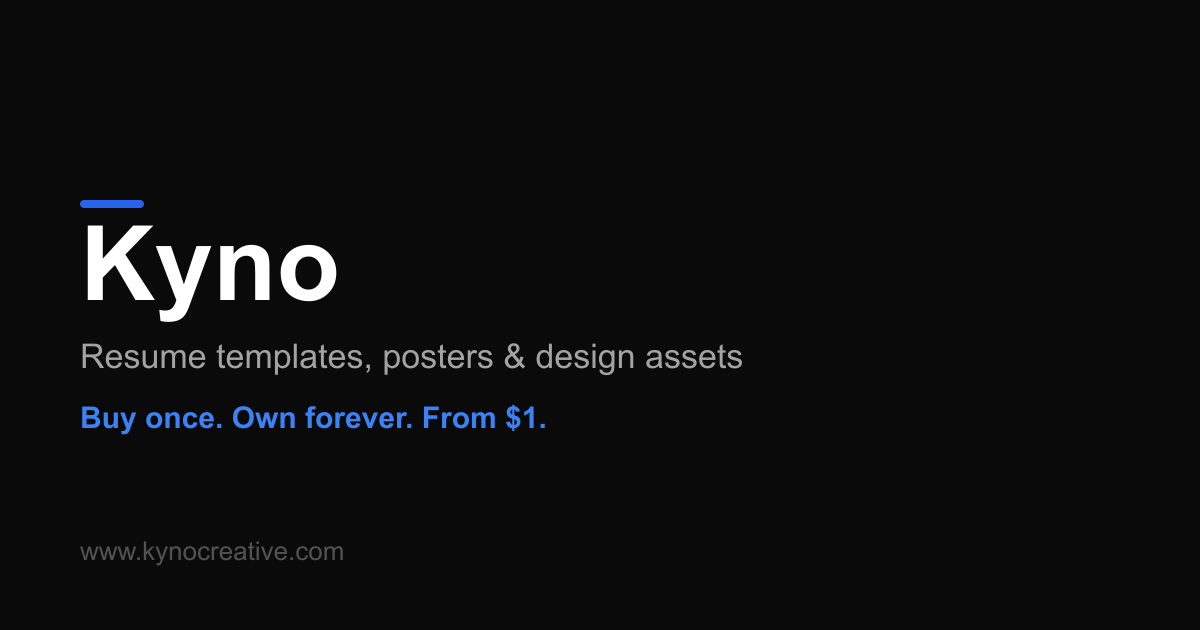
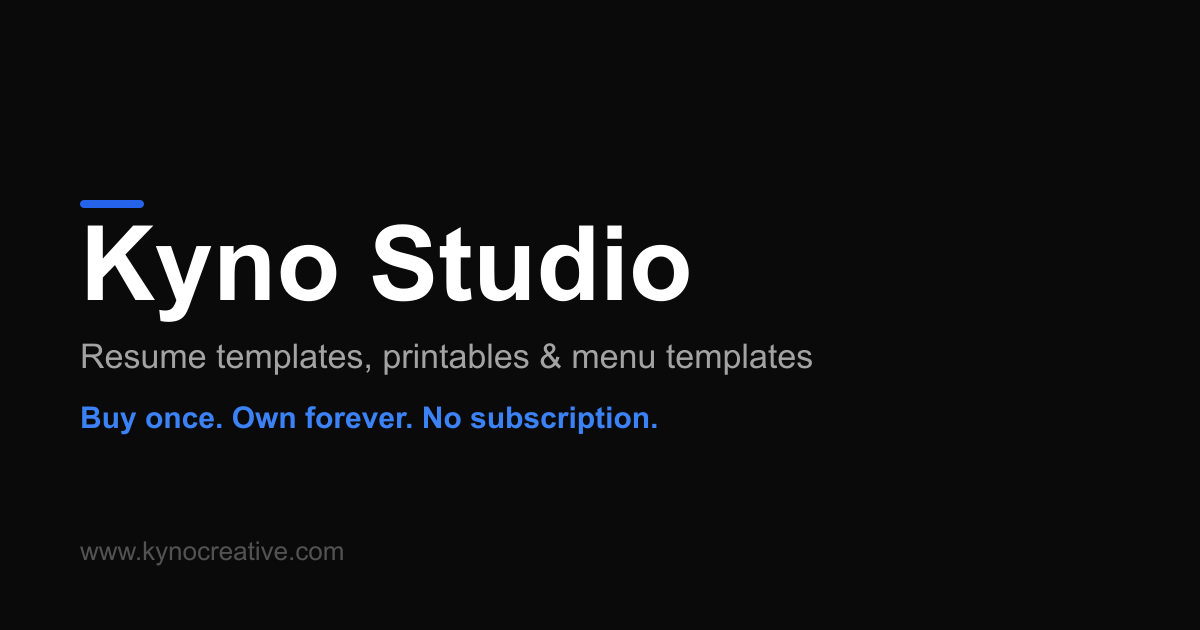
feat(brand): rename the store to Kyno Studio
A one-person shop reading "KYNO" everywhere gives a buyer no reason to think
there is a person behind it. The wordmark, the titles, the social card and the
structured data now say Kyno Studio.

The registered entity is untouched: the footer still names Kyno Technology
Limited and the Organization graph still declares it as `legalName` alongside
the new trading name. Presenting as a studio and operating as a company are
different things and both stay true.

The rename is not free. The title template's brand suffix went from seven
characters to fourteen, so a page keeps it only when its own name is 46
characters or shorter, down from 53. Pages that lose it fall back to an
absolute, trimmed title, which is what `pageTitle` already does for long
product names. The homepage is unaffected at 59 characters, just under the
budget.

The social card needed regenerating by hand — it is a PNG, and the text on it
is not reachable by any find-and-replace. Doing that surfaced two things it had
been claiming that were not true: it advertised "posters & design assets" for a
catalogue of resume templates, printables and menu templates, and it read
"From $1." while the cheapest product on the store is $4.90. The price is gone
rather than corrected, because a figure printed into a PNG that nothing
regenerates goes stale every time pricing changes, and the promise it was
attached to does not.

Kyno7878 (a seed account password), the kynocreative.com domain, the
[…]

Changed region(s): [[0.3083, 0.3619, 0.5858, 0.4825], [0.3392, 0.5429, 0.6783, 0.6032], [0.3392, 0.6333, 0.555, 0.6937]]

diff --git a/src/app/terms/page.tsx b/src/app/terms/page.tsx
@@ -7,7 +7,7 @@ import { SITE } from "@/lib/site-config";
 export const metadata: Metadata = {
   title: "Terms of Service",
   description:
-    "The terms that apply when you buy from Kyno — digital delivery, payment, refunds and acceptable use.",
+    "The terms that apply when you buy from Kyno Studio — digital delivery, payment, refunds and acceptable use.",
   alternates: { canonical: "/terms" },
 };
 
@@ -33,13 +33,13 @@ export default function TermsPage() {
 
             <h2 className="mt-10 text-lg font-bold text-neutral-900">1. Acceptance of Terms</h2>
             <p className="mt-2 text-sm leading-relaxed text-neutral-600">
-              By accessing or purchasing from Kyno (&quot;the Site&quot;), you agree to these Terms of Service.
+              By accessing or purchasing from Kyno Studio (&quot;the Site&quot;), you agree to these Terms of Service.
               If you do not agree, do not use the Site.
             </p>
 
             <h2 className="mt-8 text-lg font-bold text-neutral-900">2. Digital Products &amp; License</h2>
             <p className="mt-2 text-sm leading-relaxed text-neutral-600">
-              All products sold on Kyno are digital goods. Upon purchase, you receive a non-exclusive,
+              All products sold on Kyno Studio are digital goods. Upon purchase, you receive a non-exclusive,
               perpetual, worldwide license to use the product in personal and commercial projects. You may
               not resell, redistribute, or sublicense the products as standalone assets. Each product page
               may specify additional license terms.
@@ -73,14 +73,14 @@ export default function TermsPage() {
 
             <h2 className="mt-8 text-lg font-bold text-neutral-900">5. Intellectual Property</h2>
             <p className="mt-2 text-sm leading-relaxed text-neutral-600">
-              All products, images, templates, and content on Kyno are protected by copyright
-              and owned by Kyno or its licensors. Purchasing a product grants you a license to use it;
+              All products, images, templates, and content on Kyno Studio are protected by copyright
+              and owned by Kyno Studio or its licensors. Purchasing a product grants you a license to use it;
               it does not transfer ownership or copyright.
             </p>
 
             <h2 className="mt-8 text-lg font-bold text-neutral-900">6. Limitation of Liability</h2>
             <p className="mt-2 text-sm leading-relaxed text-neutral-600">
-              Kyno provides products &quot;as is&quot; without warranty of any kind. We are not liable for any
+              Kyno Studio provides products &quot;as is&quot; without warranty of any kind. We are not liable for any
               damages arising from the use or inability to use our products. Our total liability for any
               claim shall not exceed the amount paid for the specific product in question.
             </p>

diff --git a/src/app/about/page.tsx b/src/app/about/page.tsx
@@ -7,7 +7,7 @@ import { SITE } from "@/lib/site-config";
 export const metadata: Metadata = {
   title: "About",
   description:
-    "Kyno is an independent studio selling ready-made resume templates, printables and menu templates — pay once, own forever, from $4.",
+    "Kyno Studio is an independent studio selling ready-made resume templates, printables and menu templates — pay once, own forever, from $4.",
   alternates: { canonical: "/about" },
 };
 
@@ -34,7 +34,7 @@ export default function AboutPage() {
               Premium digital assets for creators
             </h1>
             <p className="mt-6 text-lg leading-relaxed text-neutral-500">
-              Kyno is an independent studio crafting high-quality resume templates,
+              Kyno Studio is an independent studio crafting high-quality resume templates,
               printables, and menu templates for job seekers, small businesses, and creators worldwide.
             </p>
           </div>
@@ -46,7 +46,7 @@ export default function AboutPage() {
             <div>
               <h2 className="text-xl font-bold text-neutral-900">Our story</h2>
               <p className="mt-4 text-sm leading-relaxed text-neutral-600">
-                Kyno started with a simple idea: creators should have access to premium
+                Kyno Studio started with a simple idea: creators should have access to premium
                 design resources without the premium price tag or confusing licensing.
                 Every product we ship is made with obsessive attention to detail —
                 the same quality we&apos;d want for our own projects.
@@ -95,13 +95,13 @@ export default function AboutPage() {
           </div>
         </section>
 
-        {/* Company details — someone who has never heard of Kyno should be able
+        {/* Company details — someone who has never heard of Kyno Studio should be able
             to see who they are paying before they hand over money. */}
         <section className="bg-neutral-50 px-6 py-16">
           <div className="mx-auto max-w-3xl text-center">
             <h2 className="text-xl font-bold text-neutral-900">Who you&apos;re buying from</h2>
             <p className="mt-4 text-sm leading-relaxed text-neutral-600">
-              Kyno is operated by Kyno Technology Limited, registered in Hong Kong SAR.
+              Kyno Studio is operated by Kyno Technology Limited, registered in Hong Kong SAR.
               Questions about an order, a licence or a product? Email{" "}
               <a href={`mailto:${SITE.contactEmail}`} className="text-blue-600 hover:underline">
                 {SITE.contactEmail}

diff --git a/scripts/make-og-image.js b/scripts/make-og-image.js
@@ -1,5 +1,14 @@
 // Generates public/og-default.png (1200x630) — the fallback social share card
 // used by pages that don't have a product image of their own.
+//
+// Regenerate with `node scripts/make-og-image.js`. It is a static file, so
+// nothing rebuilds it automatically: the copy on it drifts unless someone
+// remembers. It last drifted here — the card claimed "From $1." while the
+// cheapest product on the store was $4.90, and it advertised "posters & design
+// assets" for a catalogue that has neither. The price is deliberately gone
+// rather than corrected: a figure printed into a PNG nobody regenerates goes
+// stale every time the pricing changes, and the promise it was attached to
+// does not.
 const fs = require("fs");
 const path = require("path");
 const sharp = require("sharp");
@@ -7,9 +16,9 @@ const sharp = require("sharp");
 const svg = `<svg xmlns="http://www.w3.org/2000/svg" width="1200" height="630" viewBox="0 0 1200 630">
   <rect width="1200" height="630" fill="#0a0a0a"/>
   <rect x="80" y="200" width="64" height="8" rx="4" fill="#2563eb"/>
-  <text x="80" y="300" font-family="Arial, Helvetica, sans-serif" font-size="104" font-weight="bold" fill="#ffffff">Kyno</text>
-  <text x="80" y="368" font-family="Arial, Helvetica, sans-serif" font-size="34" fill="#a3a3a3">Resume templates, posters &amp; design assets</text>
-  <text x="80" y="428" font-family="Arial, Helvetica, sans-serif" font-size="30" font-weight="bold" fill="#3b82f6">Buy once. Own forever. From $1.</text>
+  <text x="80" y="300" font-family="Arial, Helvetica, sans-serif" font-size="104" font-weight="bold" fill="#ffffff">Kyno Studio</text>
+  <text x="80" y="368" font-family="Arial, Helvetica, sans-serif" font-size="34" fill="#a3a3a3">Resume templates, printables &amp; menu templates</text>
+  <text x="80" y="428" font-family="Arial, Helvetica, sans-serif" font-size="30" font-weight="bold" fill="#3b82f6">Buy once. Own forever. No subscription.</text>
   <text x="80" y="560" font-family="Arial, Helvetica, sans-serif" font-size="26" fill="#525252">www.kynocreative.com</text>
 </svg>`;
 

diff --git a/src/app/layout.tsx b/src/app/layout.tsx
@@ -18,22 +18,22 @@ export const metadata: Metadata = {
   title: {
     // The homepage carries the brand itself: title.template only applies to
     // child segments, so a default without it would leave the homepage unbranded.
-    default: "Kyno — Resume Templates, Printables & Menu Templates",
-    template: "%s — Kyno",
+    default: "Kyno Studio — Resume Templates, Printables & Menu Templates",
+    template: "%s — Kyno Studio",
   },
   description:
     "Premium resume templates, printables, and menu templates. Pay once, own forever — from $4.",
   openGraph: {
     type: "website",
     locale: "en_US",
-    siteName: "Kyno",
+    siteName: "Kyno Studio",
     // Deliberately no title/description here. Setting them at this level makes
     // every page inherit the homepage's, so /about, /blog and friends all
     // shared as the same card. Omitting them lets each page's own title and
     // description flow into og:title / og:description.
     // Inherited by every page that doesn't set its own image. Without it the
     // homepage and the static pages shared as a bare link with no card.
-    images: [{ url: "/og-default.png", width: 1200, height: 630, alt: "Kyno — resume templates, printables and menu templates" }],
+    images: [{ url: "/og-default.png", width: 1200, height: 630, alt: "Kyno Studio — resume templates, printables and menu templates" }],
   },
   twitter: {
     card: "summary_large_image",

diff --git a/src/app/privacy/page.tsx b/src/app/privacy/page.tsx
@@ -7,7 +7,7 @@ import { SITE } from "@/lib/site-config";
 export const metadata: Metadata = {
   title: "Privacy Policy",
   description:
-    "What data Kyno collects, why we collect it, and how to exercise your rights — GDPR and CCPA information included.",
+    "What data Kyno Studio collects, why we collect it, and how to exercise your rights — GDPR and CCPA information included.",
   alternates: { canonical: "/privacy" },
 };
 
@@ -82,7 +82,7 @@ export default function PrivacyPage() {
             <p className="mt-2 text-sm leading-relaxed text-neutral-600">
               <strong>CCPA (California):</strong> You have the right to know what personal information we have
               collected about you, request deletion of your data, and opt out of the sale of your personal
-              information. Kyno does not sell personal information.{" "}
+              information. Kyno Studio does not sell personal information.{" "}
               <strong>GDPR (EU/EEA):</strong> You have the right to access, rectify, erase, restrict processing,
               and data portability. Our lawful basis for processing is contract performance (orders) and consent
               (newsletter). To exercise any of these rights, email us at {SITE.contactEmail}. We respond within 30 days.

diff --git a/src/app/categories/[slug]/page.tsx b/src/app/categories/[slug]/page.tsx
@@ -32,7 +32,7 @@ export async function generateMetadata({ params }: { params: Promise<{ slug: str
   const cat = slugToCategory(slug);
   const label = categoryFull(cat);
   const data = categories.find((c) => c.id === slug);
-  const description = data?.description || `Browse ${label} on Kyno — premium digital assets for creators.`;
+  const description = data?.description || `Browse ${label} on Kyno Studio — premium digital assets for creators.`;
 
   // Empty categories are thin content. Keep the page reachable (it's linked in
   // the nav for when products land) but keep it out of the index until it has
@@ -46,7 +46,7 @@ export async function generateMetadata({ params }: { params: Promise<{ slug: str
     alternates: { canonical: `${SITE_URL}/categories/${slug}` },
     ...(isEmpty ? { robots: { index: false, follow: true } } : {}),
     openGraph: {
-      title: `${label} — Kyno`,
+      title: `${label} — Kyno Studio`,
       description,
       type: "website",
       images: [{ url: `${SITE_URL}/og-default.png`, width: 1200, height: 630 }],

diff --git a/src/app/license/page.tsx b/src/app/license/page.tsx
@@ -7,7 +7,7 @@ import { SITE } from "@/lib/site-config";
 export const metadata: Metadata = {
   title: "License",
   description:
-    "What you can and cannot do with a Kyno product — personal and commercial use, unlimited projects, no resale of the files.",
+    "What you can and cannot do with a Kyno Studio product — personal and commercial use, unlimited projects, no resale of the files.",
   alternates: { canonical: "/license" },
 };
 
@@ -29,7 +29,7 @@ export default function LicensePage() {
         <section className="px-6 py-16">
           <div className="mx-auto max-w-3xl">
             <h1 className="text-3xl font-extrabold text-neutral-900">Product License</h1>
-            <p className="mt-2 text-sm text-neutral-500">Applies to all Kyno digital products</p>
+            <p className="mt-2 text-sm text-neutral-500">Applies to all Kyno Studio digital products</p>
 
             <h2 className="mt-10 text-lg font-bold text-neutral-900">What You Can Do</h2>
             <ul className="mt-2 space-y-1.5 text-sm text-neutral-600">

diff --git a/src/lib/seo.ts b/src/lib/seo.ts
@@ -12,7 +12,7 @@ export function metaDescription(text: string, max = 160): string {
 }
 
 // Must match the root layout's title.template.
-const BRAND_SUFFIX = " — Kyno";
+const BRAND_SUFFIX = " — Kyno Studio";
 const SERP_TITLE_BUDGET = 60;
 // Segments shorter than this identify nothing on their own, so they are never
 // worth keeping as the whole title — better to fall back to cutting the name.
@@ -47,7 +47,7 @@ function shortenName(name: string, budget: number): string {
 }
 
 /**
- * The root layout renders child titles through a "%s — Kyno" template. On pages
+ * The root layout renders child titles through a "%s — Kyno Studio" template. On pages
  * whose name is already long, appending the brand pushes the title past what
  * Google displays and truncates the part that actually carries the keywords.
  * Returning an absolute title drops the redundant brand instead — the domain

diff --git a/src/app/admin/AdminCreators.tsx b/src/app/admin/AdminCreators.tsx
@@ -132,7 +132,7 @@ export default function AdminCreators() {
               <textarea value={bio} onChange={(e) => setBio(e.target.value)} rows={2} className="mt-1.5 block w-full rounded-lg border border-neutral-300 px-3.5 py-2.5 text-base outline-none focus:border-blue-500 resize-none" placeholder="A short bio for their profile page" />
             </div>
             <div>
-              <label className="block text-xs font-medium text-neutral-700">Kyno Commission %</label>
+              <label className="block text-xs font-medium text-neutral-700">Kyno Studio Commission %</label>
               <input type="number" value={commission} onChange={(e) => setCommission(Number(e.target.value))} min={10} max={50} className="mt-1.5 block w-full rounded-lg border border-neutral-300 px-3.5 py-2.5 text-base outline-none focus:border-blue-500" />
             </div>
             <div>

diff --git a/src/app/[username]/page.tsx b/src/app/[username]/page.tsx
@@ -29,12 +29,12 @@ export async function generateMetadata({ params }: PageProps): Promise<Metadata>
 
   return {
     title: `${name} — Creator`,
-    description: `Browse digital products by ${name} on Kyno — templates, printables and menu templates, delivered instantly.`,
+    description: `Browse digital products by ${name} on Kyno Studio — templates, printables and menu templates, delivered instantly.`,
     alternates: { canonical: `/${creator.username}` },
     ...(hasProducts ? {} : { robots: { index: false, follow: true } }),
     openGraph: {
-      title: `${name} — Kyno`,
-      description: `Browse digital products by ${name} on Kyno.`,
+      title: `${name} — Kyno Studio`,
+      description: `Browse digital products by ${name} on Kyno Studio.`,
       type: "profile",
       images: [{ url: "/og-default.png", width: 1200, height: 630 }],
     },

diff --git a/src/app/products/[id]/page.tsx b/src/app/products/[id]/page.tsx
@@ -48,12 +48,12 @@ export async function generateMetadata({ params }: PageProps): Promise<Metadata>
     // a price change, and the price is already in the snippet/price meta.
     // pageTitle drops the template's brand suffix when the name is long enough
     // that the two together would run past what Google displays. (Previously
-    // adding the brand here produced "… — Kyno — Kyno".)
+    // adding the brand here produced "… — Kyno Studio — Kyno Studio".)
     title: pageTitle(detail.name),
     description,
     alternates: { canonical: url },
     openGraph: {
-      title: `${detail.name} — Kyno`,
+      title: `${detail.name} — Kyno Studio`,
       description,
       // "website", not "article" — a product page is not editorial content.
       // Next's OpenGraph type union doesn't include OG's "product" type.

diff --git a/src/components/OrganizationStructuredData.tsx b/src/components/OrganizationStructuredData.tsx
@@ -14,7 +14,7 @@ export default function OrganizationStructuredData() {
       {
         "@type": "Organization",
         "@id": `${SITE_URL}/#organization`,
-        name: "Kyno",
+        name: "Kyno Studio",
         // The trading name and the registered entity are not the same thing;
         // declaring both lets search engines tie the storefront to the company.
         legalName: "Kyno Technology Limited",
@@ -47,7 +47,7 @@ export default function OrganizationStructuredData() {
         "@type": "WebSite",
         "@id": `${SITE_URL}/#website`,
         url: SITE_URL,
-        name: "Kyno",
+        name: "Kyno Studio",
         description:
           "Ready-made resume templates, printables and menu templates — pay once, own forever.",
         publisher: { "@id": `${SITE_URL}/#organization` },
